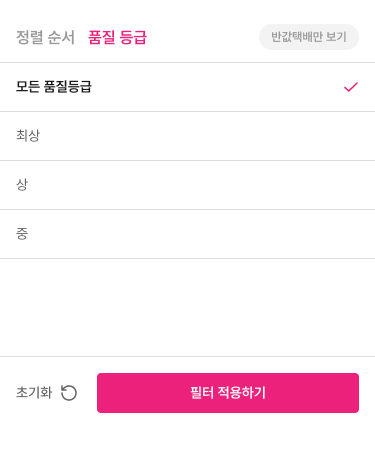
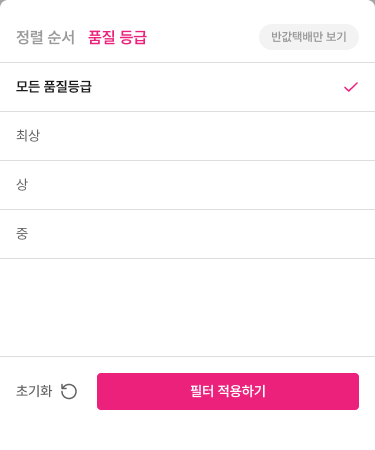
feat: Figma 1104 update) Redesign 반영
- 화면 4개(홈·가격 비교·상세·장바구니)와 오버레이 4개(필터 바텀시트·담기 스낵바 2종·하단 고정 주문 바) 이미지 교체
- 바뀐 수치에 맞춰 요소 박스·시연 핫스팟 좌표 조정 (가격 비교 버튼 40→37, 상세 리뷰 영역·하단 바 위치, 장바구니 04 높이)
- 상세 하단 고정 바를 이미지 높이 기준으로 잘라 쓰도록 변경, 장바구니 하단 바 높이 115→110, 바텀시트 높이 453→450
- 상세 담기 스낵바 위치를 하단 바 위 24px로 변경하고 스낵바 컨테이너 높이를 배율에 맞춤
- 기준 노드 ID·푸터 문구·변경 이력 갱신

diff --git a/data.js b/data.js
@@ -1,5 +1,5 @@
 // 화면설계서+기능명세서 ver1.0 (Figma 5711:18438) 내용.
-// 화면 캡처와 좌표는 최종 Redesign(5845:8476) 기준이며 좌표는 375px 디자인 기준입니다.
+// 화면 캡처와 좌표는 1104 update) Redesign(6091:8696) 기준이며 좌표는 375px 디자인 기준입니다.
 const MOVE = "관련 기능의 정상 결과와 화면 흐름을 함께 확인. 선택한 도서/판매 상품의 식별 정보 유지.";
 const REF = (sc, fn, extra) =>
   `공통 기능은 ${sc}의 ${fn}를 참조합니다.\n이 요소의 위치·표시·개별 이동은 왼쪽 화면설계에 따릅니다.\n처리·예외·미정 정책은 같은 기능 ID에 한 번만 정의했습니다.` + (extra ? "\n" + extra : "");
@@ -7,7 +7,7 @@ const REF = (sc, fn, extra) =>
 const SCREENS = [
   {
     id: "SC-HOM-01", key: "hom", name: "홈 · 중고도서 진입", short: "홈",
-    img: "assets/sc-hom.png", w: 375, h: 2532, source: "5845:8478",
+    img: "assets/sc-hom.png", w: 375, h: 2531, source: "6091:10009",
     summary: "온라인 중고 <소년이 온다>에서 플로우 시작",
     entry: "서비스 첫 진입, 다른 화면의 홈 선택",
     flow: [
@@ -128,7 +128,7 @@ const SCREENS = [
   },
   {
     id: "SC-CMP-01", key: "cmp", name: "중고책 가격 비교", short: "가격 비교",
-    img: "assets/sc-cmp.png", w: 375, h: 1642, source: "5845:8607",
+    img: "assets/sc-cmp.png", w: 375, h: 1636, source: "6091:10396",
     summary: "같은 책의 판매 상품을 판매처·정렬·상태로 비교 후 상세 진입",
     entry: "홈 ‘온라인 중고’ 카드(프로토타입), 선택한 책의 중고 상품 보기, 홈의 기존 도서 탐색 결과",
     flow: [
@@ -193,7 +193,7 @@ const SCREENS = [
               ["정상 결과", "판매 상품별 실물 상태를 비교할 수 있음"],
               ["예외·오류", "판매자 설명 미입력 시 “상태 설명 없음” 표기, 깨끗함으로 추론하지 않음"],
               ["미정 정책", "확인 필요: P-05"]] }] },
-      { n: "04", name: "장바구니·바로구매·보관", fns: ["F-CMP-06"], boxes: [[12, 1000, 352, 48]],
+      { n: "04", name: "장바구니·바로구매·보관", fns: ["F-CMP-06"], boxes: [[12, 1000, 352, 45]],
         g: [["위치·표시", "채움형 ‘장바구니’, 외곽선 ‘주문하기’, 버튼 줄 왼쪽 보관 아이콘 및 담기 스낵바."],
             ["구성요소", "상품 카드 하단의 장바구니, 바로구매, 보관 버튼"],
             ["행동·화면 변화 (ver1.0)", "장바구니를 채움형 주요 버튼, 바로구매를 외곽선 보조 버튼, 보관을 별도 경량 버튼으로 배치한다. 누르면 해당 판매 상품 1개만 처리하고 진행 중 중복 입력을 막는다."],
@@ -206,7 +206,7 @@ const SCREENS = [
               ["정상 결과", "장바구니/보관 완료 스낵바 또는 기존 주문 진입. 버튼 명칭 차이 C-CMP-02 확인."],
               ["예외·오류", "재고·가격 변경 시 갱신 후 재확인. 담기 실패 시 버튼 복구·재시도"],
               ["미정 정책", "확인 필요: P-06, P-08"]] }] },
-      { n: "05", name: "판매 상품 상세 연결", fns: ["F-CMP-05"], boxes: [[5, 815, 365, 240]], flowStep: true,
+      { n: "05", name: "판매 상품 상세 연결", fns: ["F-CMP-05"], boxes: [[5, 815, 365, 237]], flowStep: true,
         g: [["위치·표시", "판매 상품마다 제목·판매자·등급·가격을 구분한 카드."],
             ["구성요소", "판매자명, 판매 상품 카드, 상품 상세 진입 영역"],
             ["행동·화면 변화 (ver1.0)", "도서명만이 아니라 판매자·품질·판매가가 묶인 개별 상품 단위로 선택한다. 카드에서 상품 상세를 열 때 선택한 판매 상품 ID와 판매자 정보를 유지한다. 품절 시 구매 액션을 막고 상태를 안내한다."],
@@ -221,14 +221,14 @@ const SCREENS = [
               ["미정 정책", "확인 필요: P-08, P-11"]] }] }
     ],
     extras: [
-      { name: "필터 바텀시트", img: "assets/ov-sheet.png", w: 375, h: 453, desc: "품질 등급·반값택배·초기화·필터 적용. 닫기/적용 후 복귀는 F-CMP-02 연결. 딤(dim-50) 영역을 탭하면 닫힘. 프로토타입: ‘저가격순’·‘모든 품질 등급’ → 바텀시트 열림(연결 예정)." },
+      { name: "필터 바텀시트", img: "assets/ov-sheet.png", w: 375, h: 450, desc: "품질 등급·반값택배·초기화·필터 적용. 닫기/적용 후 복귀는 F-CMP-02 연결. 딤(dim-50) 영역을 탭하면 닫힘. 프로토타입: ‘저가격순’·‘모든 품질 등급’ → 바텀시트 열림(연결 예정)." },
       { name: "장바구니 담기 스낵바 ①", img: "assets/ov-snack-cart.png", w: 343, h: 52, desc: "디자인 원본의 실제 문구와 이동 링크 유지. 장바구니 담기 후 노출, ‘장바구니 보기’ → 장바구니. 위치: 뷰포트 하단 24px 위(fixed; bottom: 24px). 프로토타입에서는 상세의 ‘장바구니’에서 연결." },
       { name: "보관함 담기 스낵바 ②", img: "assets/ov-snack-cabinet.png", w: 343, h: 52, desc: "성공 결과 문구는 서버 처리 성공 후 표시. 보관함 담기 후 노출, ‘보관함 보기’ → 보관함. 위치는 ①과 같음." }
     ]
   },
   {
     id: "SC-DET-01", key: "det", name: "상품 상세 · 중고책", short: "상품 상세",
-    img: "assets/sc-det.png", w: 375, h: 3074, source: "5845:8653",
+    img: "assets/sc-det.png", w: 375, h: 3141, source: "6091:10619",
     summary: "선택한 판매 상품의 가격·상태 확인 후 장바구니 담기",
     entry: "SC-CMP-01의 특정 판매 상품 선택, 장바구니 상품명 선택",
     flow: [
@@ -247,7 +247,7 @@ const SCREENS = [
     ],
     conf: ["C-DET-01"],
     els: [
-      { n: "01", name: "판매가 중심의 구매 정보", fns: ["F-DET-01"], boxes: [[5, 620, 365, 395]],
+      { n: "01", name: "판매가 중심의 구매 정보", fns: ["F-DET-01"], boxes: [[5, 621, 365, 395]],
         g: [["위치·표시", "판매가·배송료·예상 결제액과 ‘혜택 자세히’. 원본의 가격·도서 예시를 유지함."],
             ["구성요소", "판매가, 배송비, 예상 결제액, 할인·카드 혜택 접기"],
             ["행동·화면 변화 (ver1.0)", "판매가를 화면에서 가장 큰 숫자로 표시한다. 바로 아래에 배송비와 산출 가능한 예상 결제액을 놓고, 마일리지·카드 혜택 등 부가 정보는 접힌 “혜택 자세히” 안에 둔다."],
@@ -259,7 +259,7 @@ const SCREENS = [
               ["정상 결과", "선택한 판매 상품의 구매 조건이 상단에 집중 노출"],
               ["예외·오류", "가격 또는 배송비 확인 불가 시 미확정 안내, 확정 금액처럼 보이지 않음"],
               ["미정 정책", "확인 필요: P-04, P-08"]] }] },
-      { n: "02", name: "선택한 책의 실제 상태", fns: ["F-DET-02"], boxes: [[5, 1022, 365, 389]],
+      { n: "02", name: "선택한 책의 실제 상태", fns: ["F-DET-02"], boxes: [[5, 1023, 365, 389]],
         g: [["위치·표시", "등급 ‘중’ 및 사용감·표지·책등/책배·내부/제본 상태 칩. ‘품질 등급 전체 보기’."],
             ["구성요소", "판매자 작성 상태 요약, 품질 등급, 기준표 펼치기"],
             ["행동·화면 변화 (ver1.0)", "실제 상품의 상태를 사용감·표지·책등/책배·내부/제본 상태로 구분하고, 각 항목을 짧은 알약 형태의 칩으로 표시한다. “품질 등급 전체 보기”를 선택하면 일반 품질 판정 기준을 확인할 수 있다."],
@@ -271,7 +271,7 @@ const SCREENS = [
               ["정상 결과", "실제 상품 상태와 일반 등급 기준을 별도로 확인"],
               ["예외·오류", "상품 상태 데이터 미입력 시 “판매자 상태 설명 없음”, 품질 기준 실패 시 재시도"],
               ["미정 정책", "확인 필요: P-05"]] }] },
-      { n: "03", name: "판매·등록 기능 보조화", fns: ["F-DET-05"], boxes: [[5, 1593, 365, 163]],
+      { n: "03", name: "판매·등록 기능 보조화", fns: ["F-DET-05"], boxes: [[5, 1595, 365, 160]],
         g: [["위치·표시", "본문 하단 ‘판매 · 알림’과 알림 신청·중고 판매 링크."],
             ["구성요소", "중고로 팔기 관련 링크, 중고 등록 알림 신청"],
             ["행동·화면 변화 (ver1.0)", "중고책을 구매하는 영역에서 판매·등록 버튼을 제거하는 것이 아니라 하단의 “판매·알림” 보조 섹션으로 옮긴다. 중고 등록 알림은 별도 신청·취소 UI를 사용한다."],
@@ -283,7 +283,7 @@ const SCREENS = [
               ["정상 결과", "구매 CTA와 판매·알림 CTA가 시각적으로 분리"],
               ["예외·오류", "알림 신청 실패 시 기존 신청 상태 유지. 로그인 요구는 기존 계정 정책 적용"],
               ["미정 정책", "확인 필요: P-10"]] }] },
-      { n: "04", name: "AI 감상평 요약", fns: ["F-DET-04"], boxes: [[5, 2115, 365, 140]],
+      { n: "04", name: "AI 감상평 요약", fns: ["F-DET-04"], boxes: [[5, 2108, 365, 140]],
         g: [["위치·표시", "리뷰 영역에 ‘AI 감상평 요약’과 ‘리뷰 678개를 요약했어요.’가 실제로 존재함. 운영 승인·데이터 정책은 미정."],
             ["구성요소", "독자 평가 안의 AI 요약 카드와 요약 출처 안내"],
             ["행동·화면 변화 (ver1.0)", "장표의 신규 제안 기능으로 별도 구분한다. AI 요약이 승인·구현된 경우에만 평가 탭 안에 2~3문장으로 노출한다. 미구현이거나 데이터가 없으면 해당 카드를 숨기며 기존 리뷰는 유지한다."],
@@ -295,7 +295,7 @@ const SCREENS = [
               ["정상 결과", "유효한 요약 및 대상 리뷰 수 표시. 운영 미지원 시 요약 카드 숨김은 ver1.0 조건부 규칙."],
               ["예외·오류", "데이터 없음을 0점으로 대체 금지, AI 실패 시 평가 정보만 유지"],
               ["미정 정책", "확인 필요: P-09, P-12"]] }] },
-      { n: "05", name: "Thanks to·공감 버튼", fns: ["F-DET-07"], boxes: [[5, 2448, 365, 42], [5, 2709, 365, 42]],
+      { n: "05", name: "Thanks to·공감 버튼", fns: ["F-DET-07"], boxes: [[5, 2442, 365, 42], [5, 2703, 365, 42]],
         g: [["위치·표시", "리뷰 하단 ‘공감’, ‘Thanks to’와 별도 Thanks to 안내 툴팁."],
             ["구성요소", "기존 리뷰 하단 Thanks to 버튼·공감 버튼, 선택 상태"],
             ["행동·화면 변화 (ver1.0)", "두 버튼 옆에 각각의 목적을 설명하는 짧은 안내를 제공한다. 공감 선택 시 활성 상태와 수치를 갱신하고 재선택하면 취소한다. Thanks to의 보상 정책은 확인 전 임의로 정의하지 않는다."],
@@ -308,7 +308,7 @@ const SCREENS = [
               ["정상 결과", "안내 선택 시 대응하는 설명 표시. 공감 처리 성공 시에만 선택 상태·수치 갱신."],
               ["예외·오류", "[제안] 처리 실패 시 이전 상태 유지. Thanks to 보상 규칙을 임의로 적용하지 않음."],
               ["미정 정책", "확인 필요: P-08, P-12"]] }] },
-      { n: "06", name: "구매 버튼과 부가 정보", fns: ["F-DET-06", "F-DET-03"], boxes: [[5, 3002, 365, 72]], flowStep: true,
+      { n: "06", name: "구매 버튼과 부가 정보", fns: ["F-DET-06", "F-DET-03"], boxes: [[5, 3069, 365, 72]], flowStep: true,
         g: [["위치·표시", "하단 ‘장바구니·주문하기’ 고정 바(왼쪽 보관 아이콘). 100자평·구매자 리뷰 영역은 있으나 책소개·목차·책속에서 영역은 현재 시안에 없음."],
             ["구성요소", "장바구니·바로구매 고정 바, 품절 표시, 부가 정보 탭"],
             ["행동·화면 변화 (ver1.0)", "장바구니·바로구매는 스크롤 중에도 하단에 유지한다. 담기 성공 시 완료 안내를 주고 바로구매는 현재 판매 상품으로 기존 주문 단계에 연결한다. 품절·가격 변경 시 안내 후 재확인한다."],
@@ -335,7 +335,7 @@ const SCREENS = [
   },
   {
     id: "SC-CRT-01", key: "crt", name: "장바구니 · 선택 상품 주문", short: "장바구니",
-    img: "assets/sc-crt.png", w: 375, h: 1431, source: "5845:8825",
+    img: "assets/sc-crt.png", w: 375, h: 1426, source: "6091:9045",
     summary: "담은 상품을 판매자별로 확인 후 결제 예정 26,900원으로 주문",
     entry: "장바구니 진입 버튼, 목록·상세의 담기 완료 안내",
     flow: [
@@ -392,7 +392,7 @@ const SCREENS = [
               ["정상 결과", "대상 상품 목록과 장바구니 합계 갱신"],
               ["예외·오류", "일부 실패면 실패 상품 유지, 성공 항목만 반영하고 안내"],
               ["미정 정책", "확인 필요: P-06, P-15"]] }] },
-      { n: "04", name: "하단 고정 단일 주문", fns: ["F-CRT-04", "F-CRT-05", "F-CRT-06"], boxes: [[5, 753, 365, 364]], flowStep: true,
+      { n: "04", name: "하단 고정 단일 주문", fns: ["F-CRT-04", "F-CRT-05", "F-CRT-06"], boxes: [[5, 753, 365, 359]], flowStep: true,
         g: [["위치·표시", "‘결제 금액’ 요약(상품 수·상품 금액·할인 금액·배송비·결제 예정 금액)과 본문 ‘2권 · 26,900원 주문하기’. 별도 cp-bottombar-cart의 ‘선택 상품·총 2종 2개·26,900원·주문하기’."],
             ["구성요소", "선택 N건·예상 결제액 요약, 주문하기 버튼"],
             ["행동·화면 변화 (ver1.0)", "하단에 “선택 N건 · 예상 N원”을 고정하고 그 아래 주문하기 버튼을 하나만 배치한다. 선택 0건은 비활성, 선택 시 최신 재고·금액 재확인 후 체크한 상품만 기존 주문 단계로 전달한다."],
@@ -421,7 +421,7 @@ const SCREENS = [
               ["미정 정책", "확인 필요: P-08, P-13"]] }] }
     ],
     extras: [
-      { name: "별도 하단 고정 주문 바", img: "assets/ov-bottombar.png", w: 395, h: 135, desc: "현재 Redesign 밖에 있는 실제 컴포넌트 복제(최종 Redesign 5845:8889). 본문 주문 버튼 중복은 C-CRT-01 확인 필요." }
+      { name: "별도 하단 고정 주문 바", img: "assets/ov-bottombar.png", w: 395, h: 130, desc: "현재 Redesign 밖에 있는 실제 컴포넌트 복제(1104 update) Redesign 6091:11262). 본문 주문 버튼 중복은 C-CRT-01 확인 필요." }
     ]
   }
 ];
@@ -472,7 +472,8 @@ const LOG = [
   ["2026.11.03", "Redesign 개발 주석 22건(중복 제외 19건) 반영. 요소별 ‘디자인 주석 (Redesign)’ 행 추가, SC-HOM-01/10 온라인 중고 신규, F-HOM-03 구현 범위·F-CRT-05 처리 규칙 보완, R-06·C-HOM-03·C-HOM-04·C-CMP-03·C-CRT-03 추가."],
   ["2026.11.03", "문서 검토 정정: 가격 비교 이동 경로의 자리표시 ‘compare’를 ver0.6 문구로 복원, 홈 05·07 위치·표시와 C-HOM-01·02, 가격 비교 04·F-CMP-06, 상세 06·F-DET-03을 현재 디자인 기준으로 정정, F-HOM-01 이번 구현 범위 추가, 스낵바 ①② 설명 분리."],
   ["2026.11.03", "최종 Redesign(5845:8476) 반영: 4개 화면·하단 고정 바 재캡처, 금액·판매자 통일(우나야하 · 중 · 64% · 5,400원 / 결제 예정 26,900원) 확인, 추가 주석 4건(플로우 기준·상세 연결·판매자 합계·결제 예정 금액) 반영, 프로토타입 연결(홈 → 가격 비교 → 상세 → 장바구니)을 이동 경로에 기록, C-HOM-04·C-CRT-02 해소."],
-  ["2026.11.03", "가격 비교 필터 적용 플로우 추가: F-CMP-02 ‘필터 적용 플로우’ 행, 이동 경로, 필터 바텀시트 설명 갱신. 바텀시트 프로토타입 연결은 디자인에서 추가 예정."]
+  ["2026.11.03", "가격 비교 필터 적용 플로우 추가: F-CMP-02 ‘필터 적용 플로우’ 행, 이동 경로, 필터 바텀시트 설명 갱신. 바텀시트 프로토타입 연결은 디자인에서 추가 예정."],
+  ["2026.11.05", "1104 update) Redesign(6091:8696) 반영: 4개 화면(홈·가격 비교·상세·장바구니)과 필터 바텀시트·담기 스낵바 2종·하단 고정 주문 바 이미지 교체. 바뀐 수치에 맞춰 요소 박스·시연 핫스팟 좌표 조정(가격 비교 버튼 높이 40→37, 상세 리뷰 영역 -6px·하단 바 위치, 장바구니 04 높이), 상세 화면 담기 스낵바 위치를 하단 바 위 24px로, 장바구니 하단 고정 바 높이 115→110."]
 ];
 
 // 핵심 플로우 (최종 Redesign 프로토타입 연결 기준)
@@ -493,29 +494,29 @@ const DEMO = {
     { id: "back", r: [0, 0, 44, 56], label: "뒤로", act: "go", to: "hom" },
     { id: "sort", r: [16, 777, 65, 21], label: "‘저가격순’", act: "sheet", el: "02", note: "필터 적용 플로우(연결 예정)" },
     { id: "quality", r: [93, 777, 96, 21], label: "‘모든 품질 등급’", act: "sheet", el: "02", note: "필터 적용 플로우(연결 예정)" },
-    { id: "cab1", r: [16, 1002, 40, 40], label: "1번째 상품 보관 아이콘", act: "cabinet", el: "04" },
-    { id: "cab2", r: [16, 1256, 40, 40], label: "2번째 상품 보관 아이콘", act: "cabinet", el: "04" },
-    { id: "item1", r: [0, 813, 375, 254], label: "1번째 상품(우나야하 · 중 · 5,400원)", act: "go", to: "det", el: "05" }
+    { id: "cab1", r: [16, 1002, 40, 37], label: "1번째 상품 보관 아이콘", act: "cabinet", el: "04" },
+    { id: "cab2", r: [16, 1253, 40, 37], label: "2번째 상품 보관 아이콘", act: "cabinet", el: "04" },
+    { id: "item1", r: [0, 813, 375, 251], label: "1번째 상품(우나야하 · 중 · 5,400원)", act: "go", to: "det", el: "05" }
   ],
   det: [
     { id: "back", r: [0, 0, 44, 56], label: "뒤로", act: "go", to: "cmp" },
-    { id: "like1", r: [200, 2454, 61, 29], label: "1번째 리뷰 공감", act: "toggle", el: "05" },
-    { id: "info1", r: [341, 2460, 18, 18], label: "1번째 리뷰 Thanks to ⓘ", act: "tooltip", el: "05" },
-    { id: "like2", r: [200, 2716, 61, 29], label: "2번째 리뷰 공감", act: "toggle", el: "05" },
-    { id: "info2", r: [341, 2722, 18, 18], label: "2번째 리뷰 Thanks to ⓘ", act: "tooltip", el: "05" },
-    { id: "cart", r: [64, 3018, 144, 40], label: "하단 ‘장바구니’", act: "cartSnack", el: "06" }
+    { id: "like1", r: [200, 2448, 61, 29], label: "1번째 리뷰 공감", act: "toggle", el: "05" },
+    { id: "info1", r: [341, 2454, 18, 18], label: "1번째 리뷰 Thanks to ⓘ", act: "tooltip", el: "05" },
+    { id: "like2", r: [200, 2710, 61, 29], label: "2번째 리뷰 공감", act: "toggle", el: "05" },
+    { id: "info2", r: [341, 2716, 18, 18], label: "2번째 리뷰 Thanks to ⓘ", act: "tooltip", el: "05" },
+    { id: "cart", r: [64, 3085, 144, 40], label: "하단 ‘장바구니’", act: "cartSnack", el: "06" }
   ],
   crt: [
     { id: "back", r: [0, 0, 44, 56], label: "뒤로", act: "go", to: "det" }
   ]
 };
 const DEMO_OVERLAY = {
-  sheet: { img: "assets/ov-sheet.png", w: 375, h: 453,
+  sheet: { img: "assets/ov-sheet.png", w: 375, h: 450,
     tabs: [[16, 25, 60, 24], [88, 25, 60, 24]], half: [271, 28, 76, 18],
     options: [[0, 63, 375, 49], [0, 112, 375, 49], [0, 161, 375, 49], [0, 210, 375, 49]],
-    reset: [16, 373, 65, 40], apply: [97, 373, 262, 40] },
-  snackCart: { img: "assets/ov-snack-cart.png", w: 343, h: 52, action: [237, 15, 90, 22] },
+    reset: [16, 373, 65, 37], apply: [97, 373, 262, 37] },
+  snackCart: { img: "assets/ov-snack-cart.png", w: 343, h: 52, action: [231, 15, 93, 22] },
   snackCabinet: { img: "assets/ov-snack-cabinet.png", w: 343, h: 52 },
   tooltip: { img: "assets/ov-tooltip.png", w: 137, h: 40, tailX: 121 },
-  bottombar: { img: "assets/ov-bottombar.png", w: 395, h: 135, padX: 10, padTop: 13, payTop: 731 }
+  bottombar: { img: "assets/ov-bottombar.png", w: 395, h: 130, padX: 10, padTop: 13, payTop: 731 }
 };

diff --git a/app.js b/app.js
@@ -10,7 +10,7 @@
   const demoHref = (key, n) => `#/demo/${key}${n ? "/" + n : ""}`;
   const findEl = (sc, n) => byId[sc].els.find((e) => e.n === n);
   const bullets = (items) => `<ul class="bullets">${items.map((t) => `<li>${esc(t)}</li>`).join("")}</ul>`;
-  const footer = () => `<footer class="foot">화면설계서+기능명세서 ver1.0 · 최종 Redesign(5845:8476) 기준 · 2026.11.03 · 합동세미나 모바일 웹 3조 · 알라딘 공식 서비스가 아닌 학습용 리디자인 문서</footer>`;
+  const footer = () => `<footer class="foot">화면설계서+기능명세서 ver1.0 · 1104 update) Redesign(6091:8696) 기준 · 2026.11.05 · 합동세미나 모바일 웹 3조 · 알라딘 공식 서비스가 아닌 학습용 리디자인 문서</footer>`;
   const isSplit = () => window.innerWidth > 1020;
 
   function thumb(s, b, w = 210, maxH = 170, hl = true) {
@@ -268,11 +268,11 @@
     const stepIdx = FLOW.findIndex((f) => f.sc === s.id);
     let fixbar = "";
     if (s.key === "det") {
-      fixbar = `<div class="fixbar" id="fixbar" style="height:calc(73px * var(--s))"><div class="fixbar-inner" style="height:73px;background:url(${s.img}) 0 -3001px / 375px ${s.h}px no-repeat">${hotHtml({ id: "cart", r: [64, 17, 144, 40], label: "하단 ‘장바구니’", key: "det:cartfix" })}</div></div>`;
+      fixbar = `<div class="fixbar" id="fixbar" style="height:calc(73px * var(--s))"><div class="fixbar-inner" style="height:73px;background:url(${s.img}) 0 -${s.h - 73}px / 375px ${s.h}px no-repeat">${hotHtml({ id: "cart", r: [64, 17, 144, 40], label: "하단 ‘장바구니’", key: "det:cartfix" })}</div></div>`;
     } else if (s.key === "crt") {
-      fixbar = `<div class="fixbar" id="fixbar" style="height:calc(115px * var(--s))"><div class="fixbar-inner" style="height:115px"><img src="${O.bottombar.img}" alt="선택 상품 총 2종 2개 26,900원 주문하기" style="position:absolute;left:-${O.bottombar.padX}px;top:-${O.bottombar.padTop}px;width:${O.bottombar.w}px;height:${O.bottombar.h}px"></div></div>`;
+      fixbar = `<div class="fixbar" id="fixbar" style="height:calc(110px * var(--s))"><div class="fixbar-inner" style="height:110px"><img src="${O.bottombar.img}" alt="선택 상품 총 2종 2개 26,900원 주문하기" style="position:absolute;left:-${O.bottombar.padX}px;top:-${O.bottombar.padTop}px;width:${O.bottombar.w}px;height:${O.bottombar.h}px"></div></div>`;
     }
-    const snackBottom = s.key === "det" ? 73 + 12 : 24;
+    const snackBottom = s.key === "det" ? 73 + 24 : 24;
     const sh = O.sheet;
     const sheetHots = [
       ...sh.tabs.map((r, i) => `<button type="button" class="hot" data-sheet="tab${i}" style="left:${r[0]}px;top:${r[1]}px;width:${r[2]}px;height:${r[3]}px" aria-label="${i ? "품질 등급" : "정렬 순서"} 탭"></button>`),

diff --git a/styles.css b/styles.css
@@ -216,12 +216,12 @@ a.chip:hover { filter: brightness(.96); }
 .tip { position: absolute; width: 137px; height: 40px; pointer-events: none; filter: drop-shadow(0 4px 8px rgba(0,0,0,.15)); }
 .dim { position: absolute; inset: 0; background: rgba(0, 0, 0, .5); opacity: 0; pointer-events: none; transition: opacity .2s; }
 .dim.on { opacity: 1; pointer-events: auto; }
-.sheet { position: absolute; left: 0; bottom: 0; width: calc(375px * var(--s)); height: calc(453px * var(--s)); transform: translateY(105%); transition: transform .25s ease; }
+.sheet { position: absolute; left: 0; bottom: 0; width: calc(375px * var(--s)); height: calc(450px * var(--s)); transform: translateY(105%); transition: transform .25s ease; }
 .sheet.on { transform: none; }
-.sheet-inner { position: absolute; left: 0; top: 0; width: 375px; height: 453px; transform: scale(var(--s)); transform-origin: 0 0; }
-.sheet-inner img { width: 375px; height: 453px; border-radius: 8px 8px 0 0; }
+.sheet-inner { position: absolute; left: 0; top: 0; width: 375px; height: 450px; transform: scale(var(--s)); transform-origin: 0 0; }
+.sheet-inner img { width: 375px; height: 450px; border-radius: 8px 8px 0 0; }
 .sheet .hot.sel { background: rgba(235, 33, 124, .10); box-shadow: inset 4px 0 0 var(--pink); }
-.snack { position: absolute; left: calc(16px * var(--s)); width: calc(343px * var(--s)); opacity: 0; transform: translateY(12px); transition: opacity .2s, transform .2s; pointer-events: none; }
+.snack { position: absolute; left: calc(16px * var(--s)); width: calc(343px * var(--s)); height: calc(52px * var(--s)); opacity: 0; transform: translateY(12px); transition: opacity .2s, transform .2s; pointer-events: none; }
 .snack.on { opacity: 1; transform: none; pointer-events: auto; }
 .snack-inner { position: relative; width: 343px; height: 52px; transform: scale(var(--s)); transform-origin: 0 0; }
 .snack-inner img { width: 343px; height: 52px; }
